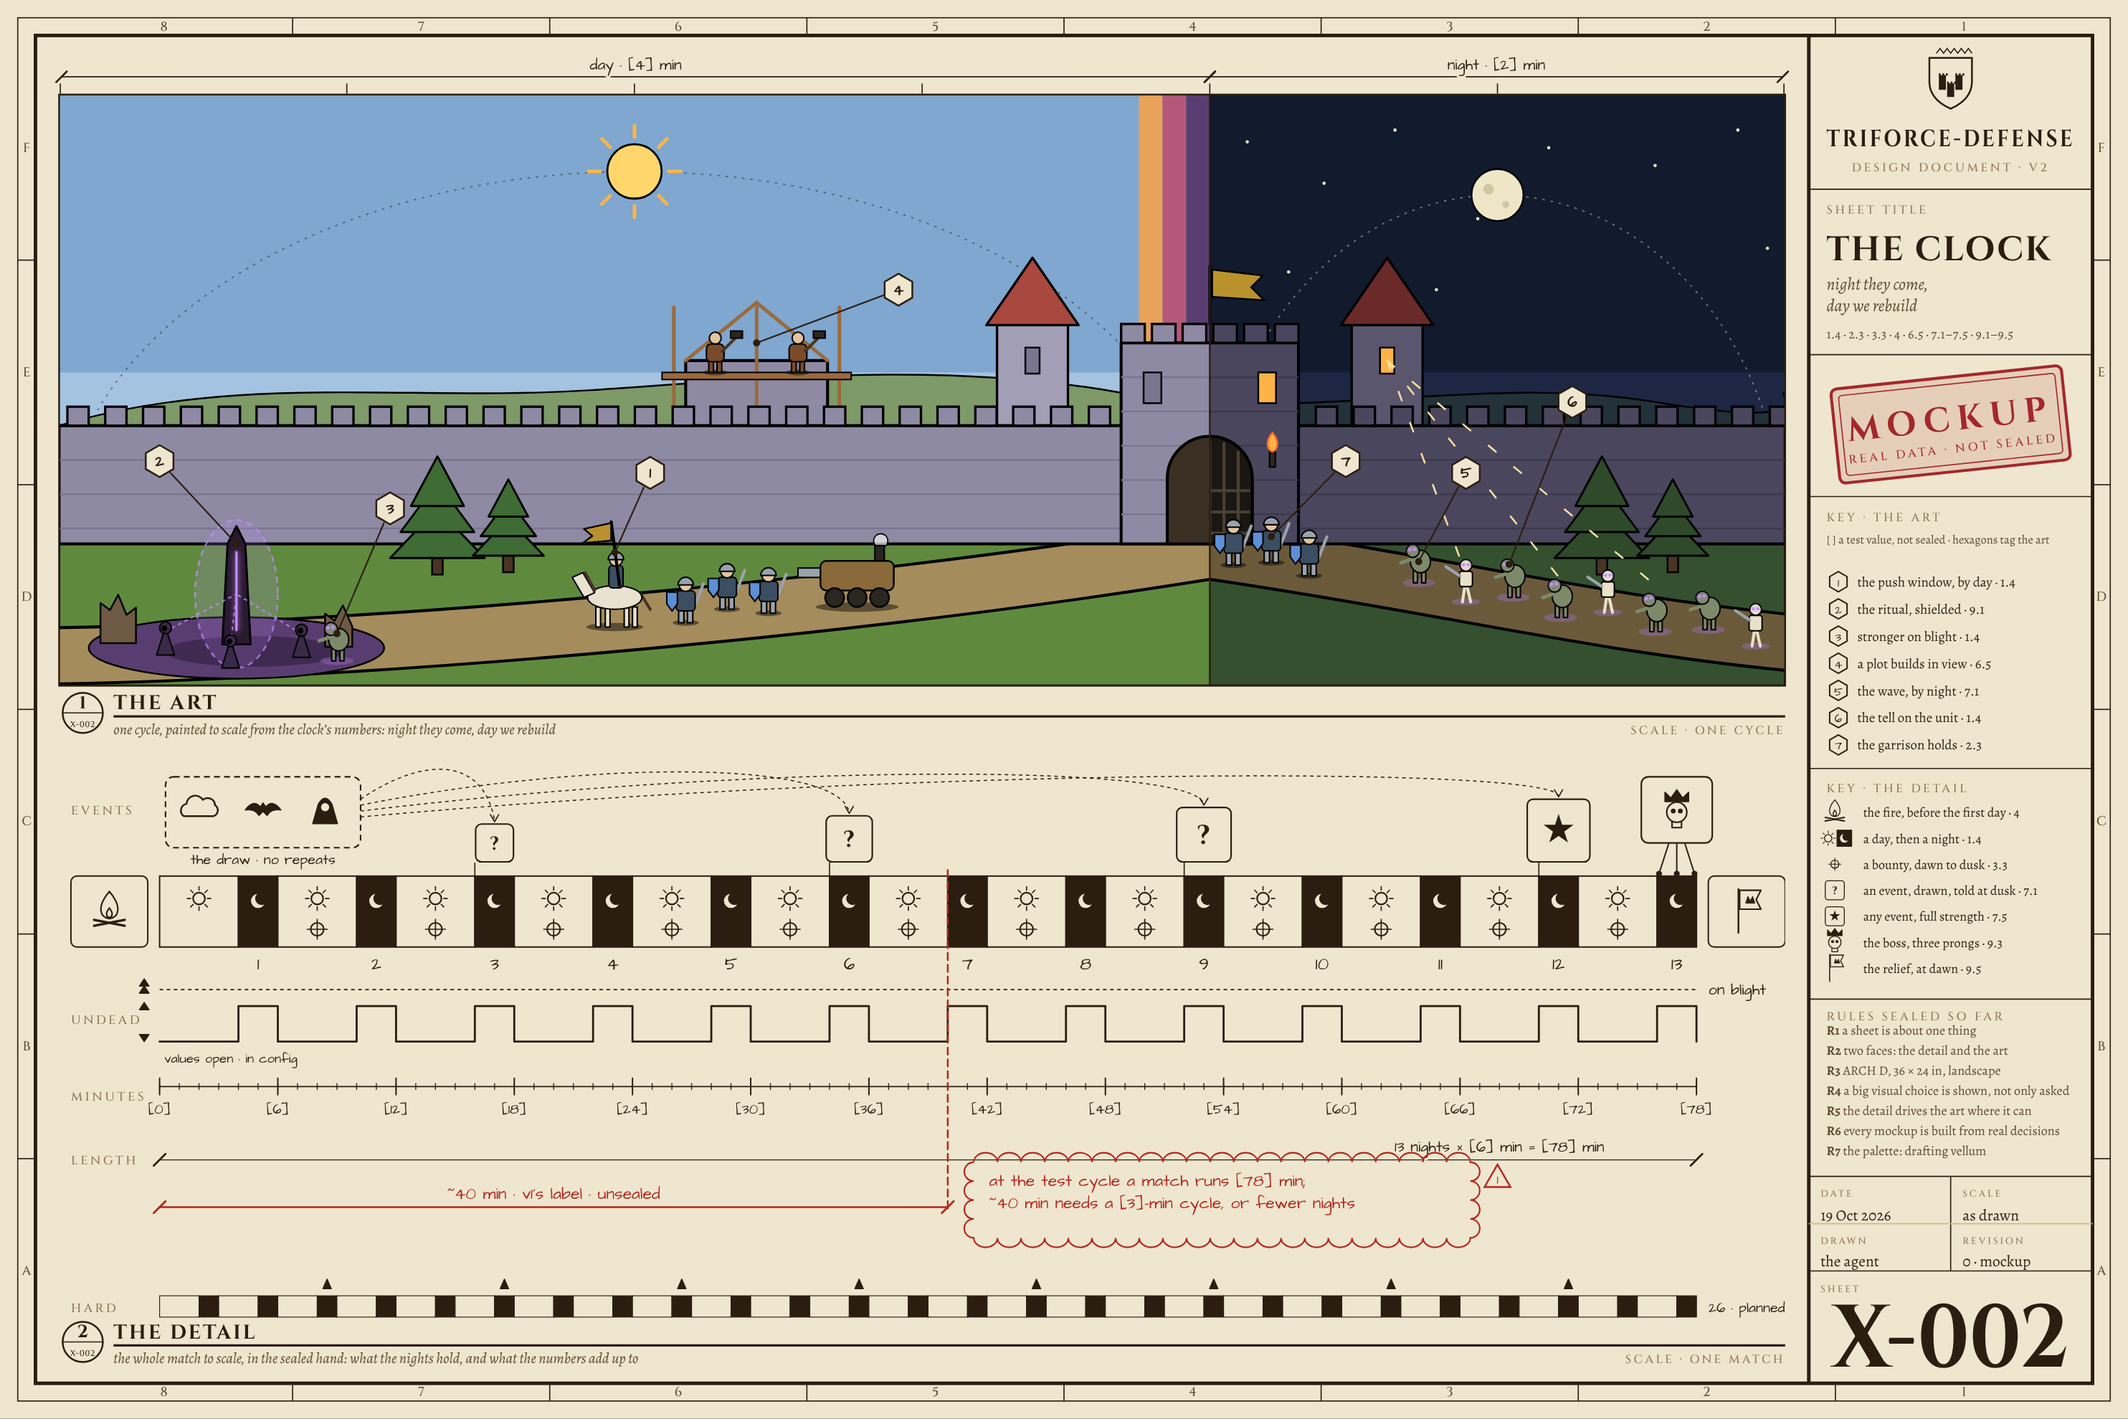
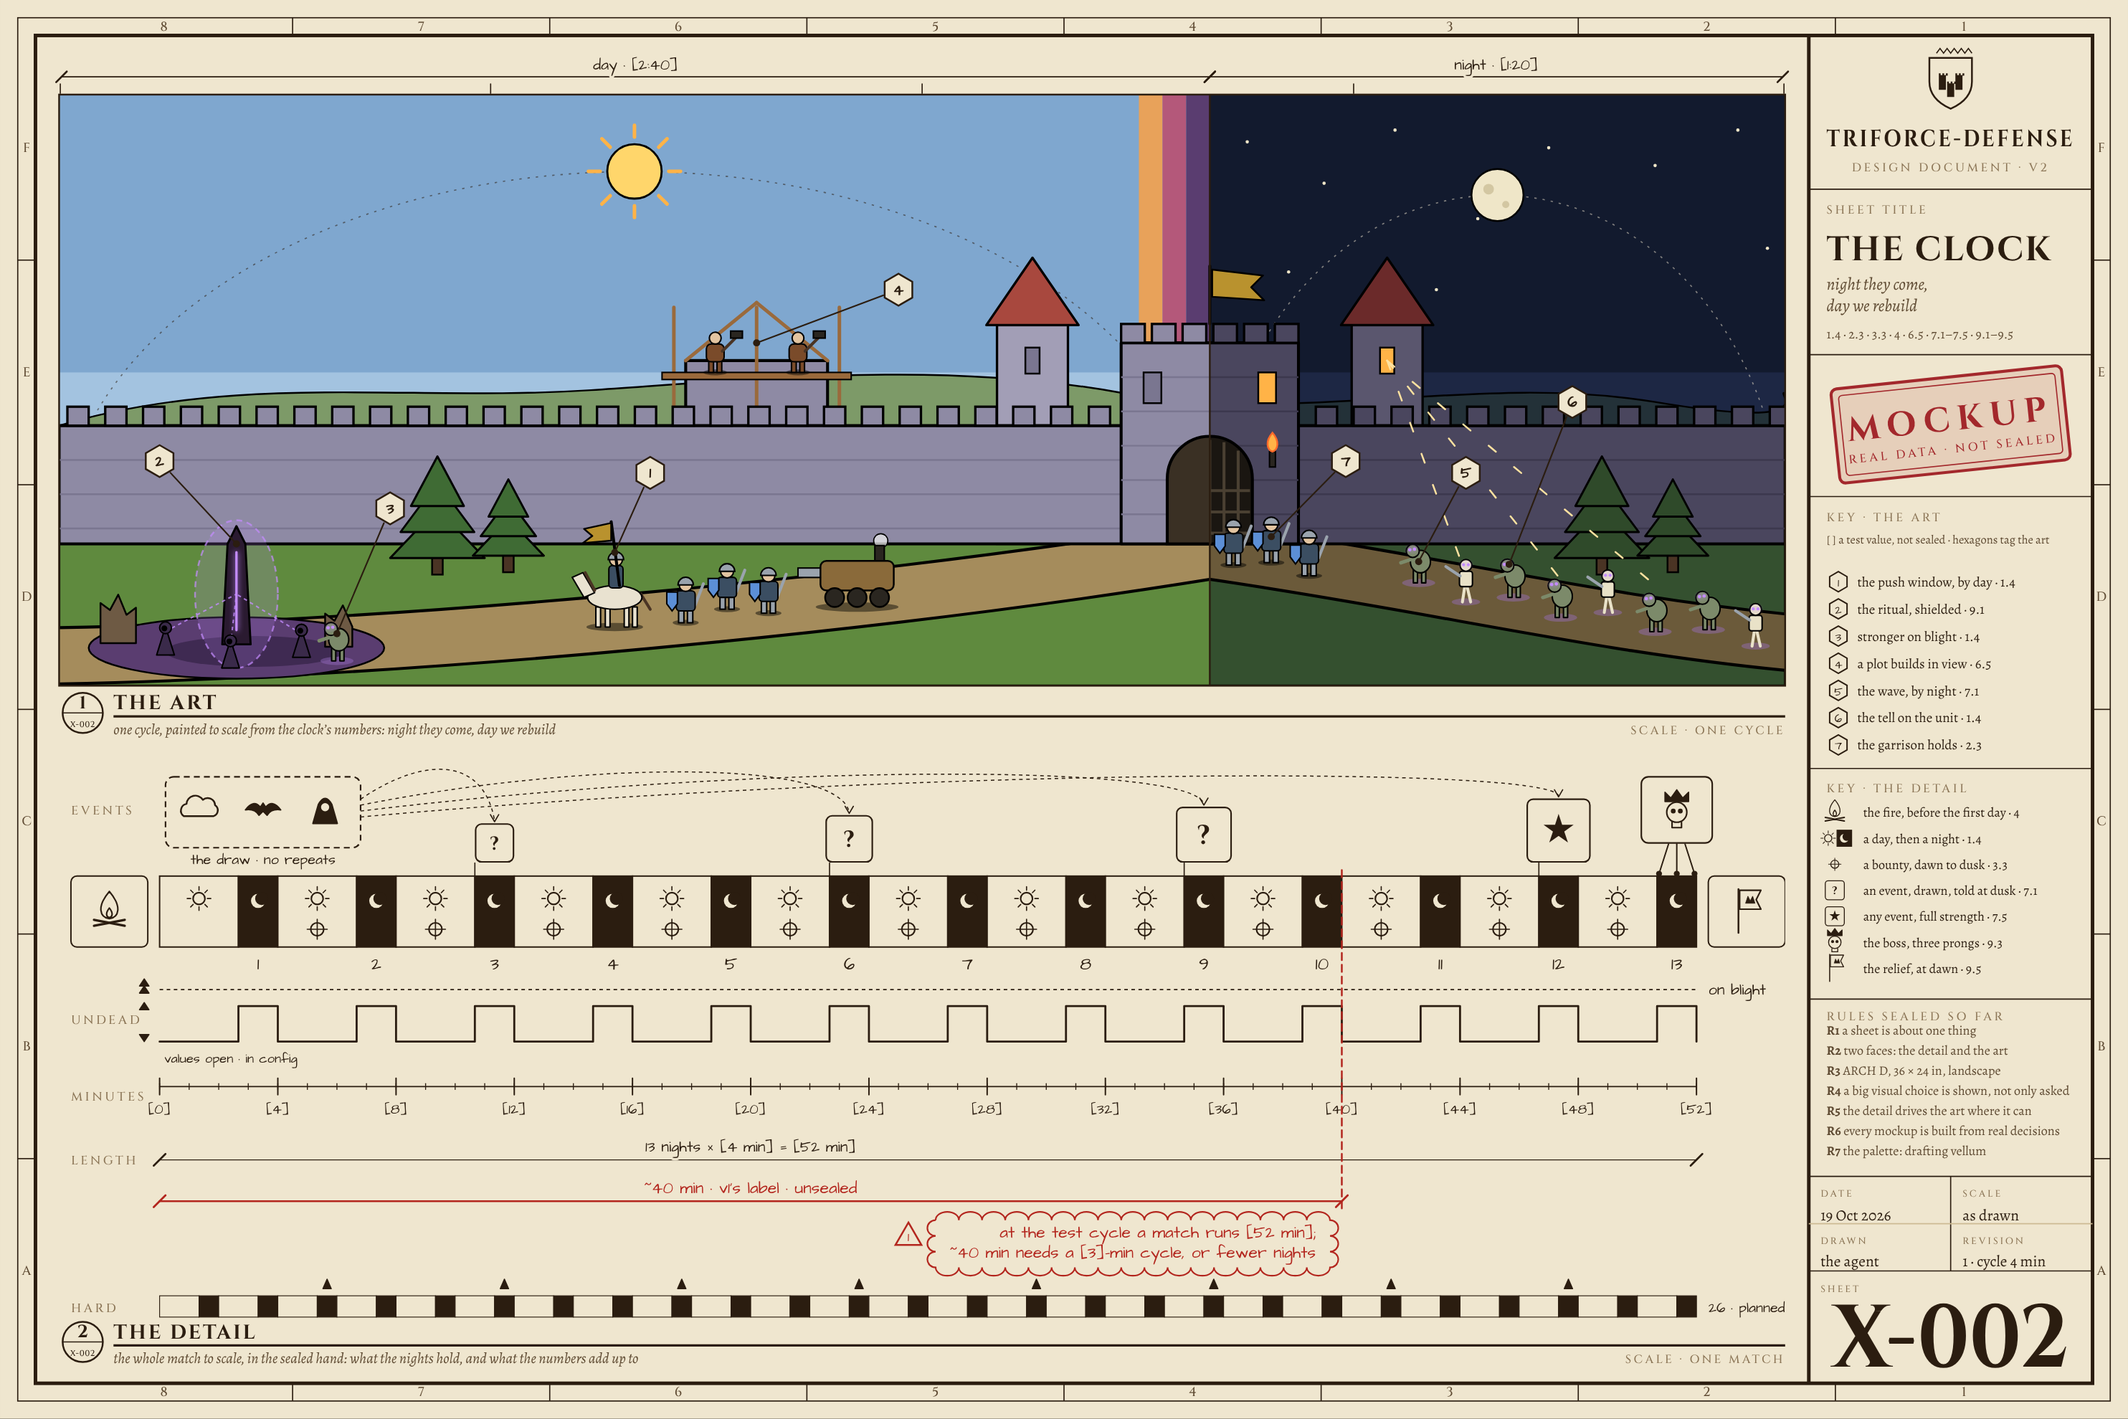
Test cycle four minutes (2:40 + 1:20); X-002 approved and redrawn from the model
The owner approved X-002 and ruled on its finding: the test cycle drops from
six minutes to four, keeping the 2:1 shape, so 13 nights run 52 min. One line
in model_clock.js; both faces redrew from it. The score's notes now place and
size themselves (the side of the red line with room, the cloud fitted to its
words, drawn once the lettering has loaded), so the next number change cannot
push them off the sheet. Change Log row in DECISIONS.md; revision 1 on X-002.

Claude-Session: https://claude.ai/code/session_0171ubkrirX9kEJ21GccUo3u

diff --git a/design/v2/sheet_clock.js b/design/v2/sheet_clock.js
@@ -6,11 +6,15 @@
    One clock drives both: the sun and moon ride their arcs, the score's playhead walks the match.
    Reduced motion and print show the still: sun and moon at their height, no playhead. */
 (function () {
+  // the notes size themselves to their words, so nothing is drawn until the lettering has loaded
+  (document.fonts ? document.fonts.ready : Promise.resolve()).then(draw);
+  function draw() {
   const { el, pts, render } = window.WALL;
   const C = window.MODELS.clock, F = window.FIG;
   const reduced = window.matchMedia('(prefers-reduced-motion: reduce)').matches;
-  const D = C.cycle.day, N = C.cycle.night, CYC = D + N, TOTAL = C.nights * CYC;
+  const D = C.cycle.day / 60, N = C.cycle.night / 60, CYC = D + N, TOTAL = C.nights * CYC;   // minutes
   const b = (v) => C.cycle.test ? `[${v}]` : String(v);          // a test value is bracketed
+  const mmss = (m) => Number.isInteger(+m.toFixed(6)) ? `${Math.round(m)} min` : `${Math.floor(m)}:${String(Math.round(m % 1 * 60)).padStart(2, '0')}`;
   const text = (g, x, y, s, cls, anchor) => { const t = el('text', { x, y, class: cls, 'text-anchor': anchor || 'start' }, g); t.textContent = s; return t; };
 
   /* ════════════ THE ART ════════════ */
@@ -134,9 +138,9 @@
     for (const x of [x1, x2]) el('line', { x1: x - 9, y1: y + 9, x2: x + 9, y2: y - 9, class: 'ln-tick' }, RL);
     text(RL, (x1 + x2) / 2, y - 12, label, 'ln-lbl', 'middle');
   };
-  dim(4, SX, 44, `day · ${b(D)} min`);
-  dim(SX, W - 4, 44, `night · ${b(N)} min`);
-  for (let m = 0; m <= CYC; m++) el('line', { x1: Math.min(W - 2, Math.max(2, W * m / CYC)), y1: 56, x2: Math.min(W - 2, Math.max(2, W * m / CYC)), y2: 72, class: 'ln-thin', style: 'stroke-width:2' }, RL);
+  dim(4, SX, 44, `day · ${b(mmss(D))}`);
+  dim(SX, W - 4, 44, `night · ${b(mmss(N))}`);
+  for (let m = 0; m <= CYC + 1e-9; m++) el('line', { x1: Math.min(W - 2, Math.max(2, W * m / CYC)), y1: 56, x2: Math.min(W - 2, Math.max(2, W * m / CYC)), y2: 72, class: 'ln-thin', style: 'stroke-width:2' }, RL);
   const rulerNow = el('path', { d: 'M-9 56 L9 56 L0 72 Z', class: 'sc-headf hidden' }, ruler);
 
   /* ════════════ THE DETAIL ════════════ */
@@ -223,7 +227,7 @@
   for (let m = 0; m <= TOTAL; m++) el('line', { x1: xAt(m), y1: 571, x2: xAt(m), y2: 581, class: 'ln-thin' }, S);
   for (let k = 0; k <= C.nights; k++) {
     el('line', { x1: X0 + k * CW, y1: 562, x2: X0 + k * CW, y2: 590, class: 'ln-tick', style: 'stroke-width:2.4' }, S);
-    text(S, X0 + k * CW, 622, b(k * CYC), 'ln-lbl', 'middle').style.fontSize = '24px';
+    text(S, X0 + k * CW, 622, b(mmss(k * CYC).replace(' min', '')), 'ln-lbl', 'middle').style.fontSize = '24px';
   }
 
   // what the numbers add up to, and what the sheet found
@@ -232,25 +236,30 @@
     for (const x of [x1, x2]) el('line', { x1: x - 10, y1: y + 10, x2: x + 10, y2: y - 10, class: tick }, S);
   };
   dimS(X0, X1, 700, 'ln-thin', 'ln-tick');
-  const x40 = xAt(C.v1Label.minutes);
-  text(S, (x40 + X1) / 2 + 300, 686, `${C.nights} nights × ${b(CYC)} min = ${b(TOTAL)} min`, 'ln-lbl', 'middle');
+  // the numbers move, so the notes find their own room: whichever side of the red line is wider
+  const x40 = xAt(C.v1Label.minutes), roomLeft = x40 - X0 >= X1 - x40;
+  text(S, roomLeft ? (X0 + x40) / 2 : (x40 + X1) / 2, 686, `${C.nights} nights × ${b(mmss(CYC))} = ${b(mmss(TOTAL))}`, 'ln-lbl', 'middle');
   el('line', { x1: x40, y1: ST - 10, x2: x40, y2: 790, class: 'rl', style: 'stroke-dasharray:12 8' }, S);
-  dimS(X0, x40, 780, 'rl', 'rl-tick');
-  text(S, (X0 + x40) / 2, 766, `~${C.v1Label.minutes} min · v1's label · unsealed`, 'rl-lbl', 'middle');
-  // the finding, clouded and flagged as a reviewer would
+  dimS(X0, x40, 770, 'rl', 'rl-tick');
+  text(S, (X0 + x40) / 2, 756, `~${C.v1Label.minutes} min · v1's label · unsealed`, 'rl-lbl', 'middle');
+  // the finding, clouded and flagged as a reviewer would, sized to its own words
   const need = Math.round(C.v1Label.minutes / C.nights);
-  const nx = x40 + 70, ny = 744;
-  text(S, nx, ny, `at the test cycle a match runs ${b(TOTAL)} min;`, 'rl-lbl');
-  text(S, nx, ny + 38, `~${C.v1Label.minutes} min needs a ${b(need)}-min cycle, or fewer nights`, 'rl-lbl');
-  const cx0 = nx - 26, cy0 = ny - 40, cx1 = nx + 800, cy1 = ny + 58;
+  const anchor = roomLeft ? 'end' : 'start', nx = roomLeft ? x40 - 44 : x40 + 44;
+  const lines = [text(S, nx, 832, `at the test cycle a match runs ${b(mmss(TOTAL))};`, 'rl-lbl', anchor),
+                 text(S, nx, 866, `~${C.v1Label.minutes} min needs a ${b(need)}-min cycle, or fewer nights`, 'rl-lbl', anchor)];
+  const tw = Math.max(...lines.map((l) => l.getComputedTextLength()));
+  const cx0 = (roomLeft ? nx - tw : nx) - 24, cx1 = cx0 + tw + 48, cy0 = 802, cy1 = 882;
+  const nh = Math.ceil((cx1 - cx0) / 40), sh = (cx1 - cx0) / nh, nv = Math.ceil((cy1 - cy0) / 30), sv = (cy1 - cy0) / nv;
   let cloud = `M${cx0} ${cy0}`;
-  for (let x = cx0; x < cx1; x += 40) cloud += ` a20 16 0 0 1 40 0`;
-  for (let y = cy0; y < cy1; y += 32) cloud += ` a16 16 0 0 1 0 32`;
-  for (let x = cx1 + (40 - (cx1 - cx0) % 40) % 40; x > cx0; x -= 40) cloud += ` a20 16 0 0 1 -40 0`;
-  for (let y = cy1 + (32 - (cy1 - cy0) % 32) % 32; y > cy0; y -= 32) cloud += ` a16 16 0 0 1 0 -32`;
+  for (let i = 0; i < nh; i++) cloud += ` a${sh / 2} 14 0 0 1 ${sh} 0`;
+  for (let i = 0; i < nv; i++) cloud += ` a14 ${sv / 2} 0 0 1 0 ${sv}`;
+  for (let i = 0; i < nh; i++) cloud += ` a${sh / 2} 14 0 0 1 ${-sh} 0`;
+  for (let i = 0; i < nv; i++) cloud += ` a14 ${sv / 2} 0 0 1 0 ${-sv}`;
   el('path', { d: cloud, class: 'rl-cloud' }, S);
-  el('path', { d: `M${cx1 + 60} ${cy0 + 4} l22 38 h-44 Z`, class: 'rl-cloud', style: 'stroke-width:3' }, S);
-  text(S, cx1 + 60, cy0 + 36, '1', 'rl-lbl', 'middle').style.fontSize = '22px';
+  // the revision delta: rev 1 is the owner's cut of the test cycle, six minutes to four
+  const fx = roomLeft ? cx0 - 46 : cx1 + 46;
+  el('path', { d: `M${fx} ${cy0 + 4} l22 38 h-44 Z`, class: 'rl-cloud', style: 'stroke-width:3' }, S);
+  text(S, fx, cy0 + 36, '1', 'rl-lbl', 'middle').style.fontSize = '22px';
 
   // hard mode, planned: 26 nights, an event every third night (not to the time scale above)
   const HW = (X1 - X0) / C.hard.nights;
@@ -311,4 +320,5 @@
   const FPS = 8;                                                 // Flash's frame rate: stepped, never tweened
   setInterval(() => { t += 1 / FPS; if (t > TOTAL + 3) t = 0; tick(Math.min(t, TOTAL)); }, 1000 / FPS);
   window.addEventListener('beforeprint', still);
+  }
 })();

diff --git a/design/v2/X-002.html b/design/v2/X-002.html
@@ -12,7 +12,7 @@
 <main class="sheet">
   <svg viewBox="0 0 3600 2400" aria-labelledby="x002-title" aria-describedby="x002-desc">
     <title id="x002-title">Sheet X-002, the clock: night they come, day we rebuild. A mockup from real decisions, not sealed.</title>
-    <desc id="x002-desc">Top, the art: one day-and-night cycle painted to scale, four minutes of day on the left and two of night on the right (test values). By day a captain's field force and a siege engine march for a ritual obelisk on blight while peasants raise a plot behind the wall; by night ghouls and skeletons with glowing eyes come down the road to the gate and the garrison holds. Bottom, the detail: the thirteen-night match to scale, event nights 3, 6, 9 drawn from the pool without repeats, night 12 any event at full strength, night 13 the boss and three lieutenants, a bounty every dawn, the relief at the end. Thirteen six-minute cycles make a 78-minute match; the red note marks that v1's label of about 40 minutes would need a three-minute cycle.</desc>
+    <desc id="x002-desc">Top, the art: one day-and-night cycle painted to scale, two minutes forty of day on the left and one minute twenty of night on the right (test values). By day a captain's field force and a siege engine march for a ritual obelisk on blight while peasants raise a plot behind the wall; by night ghouls and skeletons with glowing eyes come down the road to the gate and the garrison holds. Bottom, the detail: the thirteen-night match to scale, event nights 3, 6, 9 drawn from the pool without repeats, night 12 any event at full strength, night 13 the boss and three lieutenants, a bounty every dawn, the relief at the end. Thirteen four-minute cycles make a 52-minute match; the red note marks that v1’s label of about 40 minutes would need a three-minute cycle.</desc>
     <rect class="paper" width="3600" height="2400"/>
     <rect class="border-2" x="30" y="30" width="3540" height="2340"/>
     <rect class="border" x="60" y="60" width="3480" height="2280"/>
@@ -120,7 +120,7 @@
     <text class="tb-kick" x="3320" y="2024" style="font-size:16px">scale</text><text class="tb-text" x="3320" y="2064">as drawn</text>
     <line class="rule-2" x1="3060" y1="2070" x2="3540" y2="2070"/>
     <text class="tb-kick" x="3080" y="2104" style="font-size:16px">drawn</text><text class="tb-text" x="3080" y="2142">the agent</text>
-    <text class="tb-kick" x="3320" y="2104" style="font-size:16px">revision</text><text class="tb-text" x="3320" y="2142">0 · mockup</text>
+    <text class="tb-kick" x="3320" y="2104" style="font-size:16px">revision</text><text class="tb-text" x="3320" y="2142">1 · cycle 4 min</text>
     <line class="rule" x1="3060" y1="2150" x2="3540" y2="2150"/>
     <text class="tb-kick" x="3080" y="2186" style="font-size:16px">sheet</text>
     <text class="tb-num" x="3300" y="2312" textLength="400" lengthAdjust="spacingAndGlyphs">X-002</text>

diff --git a/design/v2/model_clock.js b/design/v2/model_clock.js
@@ -6,9 +6,10 @@
    6, 7 and 9, which hold the decisions sealed 16–17 Oct that are not yet in DECISIONS.md. */
 (function () {
   (window.MODELS = window.MODELS || {}).clock = {
-    // 1.4 day/night is the clock; v1 ch.7: "First test: six minutes, four of day and two of night".
-    // Day length lives in config and is open (7.5).
-    cycle: { day: 4, night: 2, test: true },
+    // 1.4 day/night is the clock. The test cycle, in seconds: the owner, 19 Oct, after X-002's finding,
+    // cut it from six minutes (4:00 + 2:00) to four, keeping the 2 : 1 shape. Day length lives in config
+    // and is still open (7.5); the walk decides it.
+    cycle: { day: 160, night: 80, test: true },
 
     // v1 ch.7: "A match is thirteen nights" (sealed 16 Oct); hard mode doubles it, planned for later.
     nights: 13,

diff --git a/docs/CHANGELOG.md b/docs/CHANGELOG.md
@@ -7,6 +7,10 @@ Mirrors the Build Timeline in `DECISIONS.md`.
 ## Unreleased
 - …
 
+## 2026-10-19 — X-002 approved; the test cycle becomes four minutes
+- The owner approved X-002, the clock, and ruled on its finding: the test cycle is cut from six minutes to four, keeping the 2 : 1 shape, 2:40 day + 1:20 night. Thirteen nights now run 52 min; the forty minutes stays unsealed. Change Log row in `DECISIONS.md`.
+- One line changed in `design/v2/model_clock.js` (the cycle, now in seconds); both faces of X-002 redrew from it: the painting's split, the sun and moon arcs, the ruler, the score's cells, the minutes and the red note. Labels read m:ss where a value is not whole minutes. Screenshot re-taken.
+
 ## 2026-10-19 — v2: Q4 sealed, two faces, mockup X-002 (the clock) from real data
 - Owner, on X-001: drafting vellum is the palette (R7), and the cutaway is an approved design, but one template, not the rule. Every sheet has two faces, the detail and the art (R2, amended); the detail drives the art where it can, and where a picture says it better the art is an illustration (R5); every mockup is built from real decisions, never an arbitrary picture (R6). The sheet paper and ink move to vellum in `wallsheet_tokens.css`.
 - `X-002.html`, the clock: the art paints one cycle split day | night where the data splits it ([4] : [2], the first test), with the push window by day (a field force and an engine for a ritual on blight, a plot rising behind the wall) and the wave by night (the horde with the tell, the garrison at the gate); the detail is the 13-night match to scale (event nights 3 · 6 · 9 drawn without repeats, night 12 any at full strength, night 13's three prongs, a bounty every dawn, the fire and the relief, the undead's day/night shape, hard mode planned). Both are computed from `model_clock.js`; one clock runs the sun, the moon and the score's playhead.

diff --git a/DECISIONS.md b/DECISIONS.md
@@ -149,3 +149,4 @@ Status ∈ **Planned · In Design · Locked · Built · Superseded**.
 | 2026-10-15 | Decision 1.5 amended: winding river; towns farther apart; a bridge on the hill↔valley road; a mountain ridge down the whole west border; a thick forest border down the whole east. | Owner, after Plate I's sketch | DECISIONS.md 1.5; design/index.html Plate I |
 | 2026-10-15 | Repo brought under design-first 0.1.38: the brief's colours and fonts move to `design/deck_vellum_tokens.css` (GAME-07, look unchanged); `.gitattributes` (DES-09, late); `## Next session` in the hand-off (DES-14); the empty catch in `brief.js` carries its reason (OBS-04). | Kit Doctor RED on this repo | design/, docs/HANDOFF.md, .gitattributes |
 | 2026-10-15 | Owner ruling: the brief keeps the deck_vellum skin and its animations — an exception to the default skin (SKIN-02) and to the no-ambient-motion rules (WEB-06, SKIN-06, DISP-02). Every animation has a static form under reduced motion (SAFE-05). The bridge joins Non-Negotiable Constraints. | Owner, 2026-10-15 session prompt | design/; DECISIONS.md constraints |
+| 2026-10-19 | Test cycle cut from six minutes (4:00 day + 2:00 night) to four, keeping the 2 : 1 shape: 2:40 day + 1:20 night. Thirteen nights now run 52 min; the forty minutes stays unsealed, and day length stays in config for the walk to decide (1.4; v1 chapter 7). | Owner, after sheet X-002 showed 13 × 6 = 78 min against v1's "~40 min" label | config (day/night length), `design/v2/model_clock.js` |

diff --git a/design/v2/RULES.md b/design/v2/RULES.md
@@ -40,7 +40,6 @@ rules are the grammar, not the sentence, so no two sheets need be copies.
 
 | Q | Fork | Trial sheet |
 |---|------|-------------|
-| — | The owner's verdict on X-002, the clock: the second template, built from real data | `X-002.html` |
 | Q5 | The text budget per sheet | X-002 shows one budget: labels, keys, no paragraphs |
 | Q6 | Motion: where a sheet moves, and how | needs one from real data (R4 · R6) |
 | Q7 | Which LEGO devices to adopt: steps, the parts box, callouts, box art | needs one from real data (R4 · R6) |
@@ -50,7 +49,7 @@ rules are the grammar, not the sentence, so no two sheets need be copies.
 | Sheet | Thing | Template | State |
 |-------|-------|----------|-------|
 | X-001 | the gate (2.3 · 2.4 · 6.7) | the cutaway, four drawing hands | trial; chose the palette (Q4). Its dimensions are placeholders, which R6 now forbids |
-| X-002 | the clock (1.4 · 3.3 · 4 · 6.5 · 7.1–7.5 · 9.1–9.5) | an illustration over a score; the detail drives the art | mockup from real data, awaiting the owner's verdict |
+| X-002 | the clock (1.4 · 3.3 · 4 · 6.5 · 7.1–7.5 · 9.1–9.5) | an illustration over a score; the detail drives the art | **approved** by the owner, 19 Oct. Its finding (13 × 6 = 78 min) moved the test cycle to 4 min, 2:40 + 1:20; the sheet redrew itself from the model |
 
 ## Sources
 
